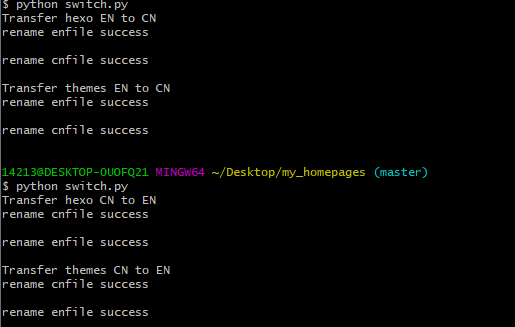
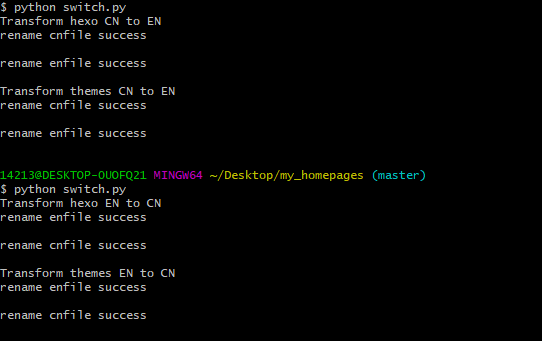
blog update

diff --git a/2020/10/16/Hexo的双语配置文件切换脚本/index.html b/2020/10/16/Hexo的双语配置文件切换脚本/index.html
@@ -19,7 +19,7 @@
 <meta property="og:description" content="由于github的服务器在境外，时常出现国内访问速度慢的问题，考虑实际需要，所以该站采用境内外的双语部署配置文件。每次分别部署时候要手动重命名四个文件，非常麻烦。所以写了这个脚本快速切换配置文件。话说将博客分成中英文两个git分支是最优雅彻底的方式，目前这个先用来应急。">
 <meta property="og:locale" content="default">
 <meta property="og:image" content="https://cranefly88.cn/images/2020-10-16-01.png">
-<meta property="og:updated_time" content="2020-10-16T11:34:10.617Z">
+<meta property="og:updated_time" content="2020-10-16T14:36:55.532Z">
 <meta name="twitter:card" content="summary">
 <meta name="twitter:title" content="Hexo的双语配置文件切换脚本">
 <meta name="twitter:description" content="由于github的服务器在境外，时常出现国内访问速度慢的问题，考虑实际需要，所以该站采用境内外的双语部署配置文件。每次分别部署时候要手动重命名四个文件，非常麻烦。所以写了这个脚本快速切换配置文件。话说将博客分成中英文两个git分支是最优雅彻底的方式，目前这个先用来应急。">
@@ -257,7 +257,7 @@
     
     <p>由于github的服务器在境外，时常出现国内访问速度慢的问题，考虑实际需要，所以该站采用境内外的双语部署配置文件。每次分别部署时候要手动重命名四个文件，非常麻烦。所以写了这个脚本快速切换配置文件。话说将博客分成中英文两个git分支是最优雅彻底的方式，目前这个先用来应急。<a id="more"></a></p>
 <h3 id="switch-py"><a href="#switch-py" class="headerlink" title="switch.py"></a>switch.py</h3><p>该文件放在hexo博客文件夹的根目录，会自动检测当前配置语言，并切换为另一种配置。</p>
-<figure class="highlight python"><table><tr><td class="gutter"><pre><span class="line">1</span><br><span class="line">2</span><br><span class="line">3</span><br><span class="line">4</span><br><span class="line">5</span><br><span class="line">6</span><br><span class="line">7</span><br><span class="line">8</span><br><span class="line">9</span><br><span class="line">10</span><br><span class="line">11</span><br><span class="line">12</span><br><span class="line">13</span><br><span class="line">14</span><br><span class="line">15</span><br><span class="line">16</span><br><span class="line">17</span><br><span class="line">18</span><br><span class="line">19</span><br><span class="line">20</span><br><span class="line">21</span><br><span class="line">22</span><br><span class="line">23</span><br><span class="line">24</span><br><span class="line">25</span><br><span class="line">26</span><br><span class="line">27</span><br><span class="line">28</span><br><span class="line">29</span><br><span class="line">30</span><br><span class="line">31</span><br><span class="line">32</span><br><span class="line">33</span><br><span class="line">34</span><br><span class="line">35</span><br><span class="line">36</span><br><span class="line">37</span><br><span class="line">38</span><br><span class="line">39</span><br><span class="line">40</span><br><span class="line">41</span><br><span class="line">42</span><br><span class="line">43</span><br><span class="line">44</span><br><span class="line">45</span><br><span class="line">46</span><br><span class="line">47</span><br><span class="line">48</span><br><span class="line">49</span><br><span class="line">50</span><br><span class="line">51</span><br><span class="line">52</span><br><span class="line">53</span><br><span class="line">54</span><br><span class="line">55</span><br><span class="line">56</span><br><span class="line">57</span><br><span class="line">58</span><br><span class="line">59</span><br><span class="line">60</span><br><span class="line">61</span><br><span class="line">62</span><br><span class="line">63</span><br><span class="line">64</span><br><span class="line">65</span><br><span class="line">66</span><br><span class="line">67</span><br><span class="line">68</span><br><span class="line">69</span><br><span class="line">70</span><br><span class="line">71</span><br><span class="line">72</span><br><span class="line">73</span><br><span class="line">74</span><br><span class="line">75</span><br><span class="line">76</span><br><span class="line">77</span><br><span class="line">78</span><br><span class="line">79</span><br><span class="line">80</span><br><span class="line">81</span><br><span class="line">82</span><br><span class="line">83</span><br><span class="line">84</span><br><span class="line">85</span><br><span class="line">86</span><br><span class="line">87</span><br><span class="line">88</span><br><span class="line">89</span><br><span class="line">90</span><br><span class="line">91</span><br></pre></td><td class="code"><pre><span class="line"><span class="keyword">import</span> os,sys</span><br><span class="line"><span class="comment">#修改hexo配置文件</span></span><br><span class="line">path = <span class="string">r'[博客路径]'</span></span><br><span class="line">files = os.listdir(path)</span><br><span class="line"></span><br><span class="line"><span class="keyword">for</span> file <span class="keyword">in</span> files:</span><br><span class="line">    <span class="keyword">if</span> file == <span class="string">'_config_en.yml'</span>  :</span><br><span class="line">        print(<span class="string">"Transfer hexo CN to EN"</span>)</span><br><span class="line">        srcFile = <span class="string">'./_config.yml'</span></span><br><span class="line">        dstFile = <span class="string">'./_config_cn.yml'</span></span><br><span class="line">        <span class="keyword">try</span>:</span><br><span class="line">            os.rename(srcFile,dstFile)</span><br><span class="line">        <span class="keyword">except</span> Exception <span class="keyword">as</span> e:</span><br><span class="line">            print(e)</span><br><span class="line">            print(<span class="string">'rename cnfile fail\r\n'</span>)</span><br><span class="line">        <span class="keyword">else</span>:</span><br><span class="line">            print(<span class="string">'rename cnfile success\r\n'</span>)</span><br><span class="line">        srcFile = <span class="string">'./_config_en.yml'</span></span><br><span class="line">        dstFile = <span class="string">'./_config.yml'</span></span><br><span class="line">        <span class="keyword">try</span>:</span><br><span class="line">            os.rename(srcFile,dstFile)</span><br><span class="line">        <span class="keyword">except</span> Exception <span class="keyword">as</span> e:</span><br><span class="line">            print(e)</span><br><span class="line">            print(<span class="string">'rename enfile fail\r\n'</span>)</span><br><span class="line">        <span class="keyword">else</span>:</span><br><span class="line">            print(<span class="string">'rename enfile success\r\n'</span>)</span><br><span class="line">    <span class="keyword">elif</span> file == <span class="string">'_config_cn.yml'</span> :</span><br><span class="line">        print(<span class="string">"Transfer hexo EN to CN"</span>)</span><br><span class="line">        srcFile = <span class="string">'./_config.yml'</span></span><br><span class="line">        dstFile = <span class="string">'./_config_en.yml'</span></span><br><span class="line">        <span class="keyword">try</span>:</span><br><span class="line">            os.rename(srcFile,dstFile)</span><br><span class="line">        <span class="keyword">except</span> Exception <span class="keyword">as</span> e:</span><br><span class="line">            print(e)</span><br><span class="line">            print(<span class="string">'rename enfile fail\r\n'</span>)</span><br><span class="line">        <span class="keyword">else</span>:</span><br><span class="line">            print(<span class="string">'rename enfile success\r\n'</span>)</span><br><span class="line">        srcFile = <span class="string">'./_config_cn.yml'</span></span><br><span class="line">        dstFile = <span class="string">'./_config.yml'</span></span><br><span class="line">        <span class="keyword">try</span>:</span><br><span class="line">            os.rename(srcFile,dstFile)</span><br><span class="line">        <span class="keyword">except</span> Exception <span class="keyword">as</span> e:</span><br><span class="line">            print(e)</span><br><span class="line">            print(<span class="string">'rename cnfile fail\r\n'</span>)</span><br><span class="line">        <span class="keyword">else</span>:</span><br><span class="line">            print(<span class="string">'rename cnfile success\r\n'</span>)</span><br><span class="line"><span class="comment">#修改主题配置文件</span></span><br><span class="line">path = <span class="string">r'主题路径'</span></span><br><span class="line">files = os.listdir(path)</span><br><span class="line"></span><br><span class="line"><span class="keyword">for</span> file <span class="keyword">in</span> files:</span><br><span class="line">    <span class="keyword">if</span> file == <span class="string">'_config_en.yml'</span>  :</span><br><span class="line">        print(<span class="string">"Transfer themes CN to EN"</span>)</span><br><span class="line">        srcFile = path+<span class="string">'/_config.yml'</span></span><br><span class="line">        dstFile = path+<span class="string">'/_config_cn.yml'</span></span><br><span class="line">        <span class="keyword">try</span>:</span><br><span class="line">            os.rename(srcFile,dstFile)</span><br><span class="line">        <span class="keyword">except</span> Exception <span class="keyword">as</span> e:</span><br><span class="line">            print(e)</span><br><span class="line">            print(<span class="string">'rename cnfile fail\r\n'</span>)</span><br><span class="line">        <span class="keyword">else</span>:</span><br><span class="line">            print(<span class="string">'rename cnfile success\r\n'</span>)</span><br><span class="line">        srcFile = path+<span class="string">'/_config_en.yml'</span></span><br><span class="line">        dstFile = path+<span class="string">'/_config.yml'</span></span><br><span class="line">        <span class="keyword">try</span>:</span><br><span class="line">            os.rename(srcFile,dstFile)</span><br><span class="line">        <span class="keyword">except</span> Exception <span class="keyword">as</span> e:</span><br><span class="line">            print(e)</span><br><span class="line">            print(<span class="string">'rename enfile fail\r\n'</span>)</span><br><span class="line">        <span class="keyword">else</span>:</span><br><span class="line">            print(<span class="string">'rename enfile success\r\n'</span>)</span><br><span class="line">    <span class="keyword">elif</span> file == <span class="string">'_config_cn.yml'</span> :</span><br><span class="line">        print(<span class="string">"Transfer themes EN to CN"</span>)</span><br><span class="line">        srcFile = path+<span class="string">'/_config.yml'</span></span><br><span class="line">        dstFile = path+<span class="string">'/_config_en.yml'</span></span><br><span class="line">        <span class="keyword">try</span>:</span><br><span class="line">            os.rename(srcFile,dstFile)</span><br><span class="line">        <span class="keyword">except</span> Exception <span class="keyword">as</span> e:</span><br><span class="line">            print(e)</span><br><span class="line">            print(<span class="string">'rename enfile fail\r\n'</span>)</span><br><span class="line">        <span class="keyword">else</span>:</span><br><span class="line">            print(<span class="string">'rename enfile success\r\n'</span>)</span><br><span class="line">        srcFile = path+<span class="string">'/_config_cn.yml'</span></span><br><span class="line">        dstFile = path+<span class="string">'/_config.yml'</span></span><br><span class="line">        <span class="keyword">try</span>:</span><br><span class="line">            os.rename(srcFile,dstFile)</span><br><span class="line">        <span class="keyword">except</span> Exception <span class="keyword">as</span> e:</span><br><span class="line">            print(e)</span><br><span class="line">            print(<span class="string">'rename cnfile fail\r\n'</span>)</span><br><span class="line">        <span class="keyword">else</span>:</span><br><span class="line">            print(<span class="string">'rename cnfile success\r\n'</span>)</span><br></pre></td></tr></table></figure>
+<figure class="highlight python"><table><tr><td class="gutter"><pre><span class="line">1</span><br><span class="line">2</span><br><span class="line">3</span><br><span class="line">4</span><br><span class="line">5</span><br><span class="line">6</span><br><span class="line">7</span><br><span class="line">8</span><br><span class="line">9</span><br><span class="line">10</span><br><span class="line">11</span><br><span class="line">12</span><br><span class="line">13</span><br><span class="line">14</span><br><span class="line">15</span><br><span class="line">16</span><br><span class="line">17</span><br><span class="line">18</span><br><span class="line">19</span><br><span class="line">20</span><br><span class="line">21</span><br><span class="line">22</span><br><span class="line">23</span><br><span class="line">24</span><br><span class="line">25</span><br><span class="line">26</span><br><span class="line">27</span><br><span class="line">28</span><br><span class="line">29</span><br><span class="line">30</span><br><span class="line">31</span><br><span class="line">32</span><br><span class="line">33</span><br><span class="line">34</span><br><span class="line">35</span><br><span class="line">36</span><br><span class="line">37</span><br><span class="line">38</span><br><span class="line">39</span><br><span class="line">40</span><br><span class="line">41</span><br><span class="line">42</span><br><span class="line">43</span><br><span class="line">44</span><br><span class="line">45</span><br><span class="line">46</span><br><span class="line">47</span><br><span class="line">48</span><br><span class="line">49</span><br><span class="line">50</span><br><span class="line">51</span><br><span class="line">52</span><br><span class="line">53</span><br><span class="line">54</span><br><span class="line">55</span><br><span class="line">56</span><br><span class="line">57</span><br><span class="line">58</span><br><span class="line">59</span><br><span class="line">60</span><br><span class="line">61</span><br><span class="line">62</span><br><span class="line">63</span><br><span class="line">64</span><br><span class="line">65</span><br><span class="line">66</span><br><span class="line">67</span><br><span class="line">68</span><br><span class="line">69</span><br><span class="line">70</span><br><span class="line">71</span><br><span class="line">72</span><br><span class="line">73</span><br><span class="line">74</span><br><span class="line">75</span><br><span class="line">76</span><br><span class="line">77</span><br><span class="line">78</span><br><span class="line">79</span><br><span class="line">80</span><br><span class="line">81</span><br><span class="line">82</span><br><span class="line">83</span><br><span class="line">84</span><br><span class="line">85</span><br><span class="line">86</span><br><span class="line">87</span><br><span class="line">88</span><br><span class="line">89</span><br><span class="line">90</span><br><span class="line">91</span><br></pre></td><td class="code"><pre><span class="line"><span class="keyword">import</span> os,sys</span><br><span class="line"><span class="comment">#修改hexo配置文件</span></span><br><span class="line">path = <span class="string">r'[博客路径]'</span></span><br><span class="line">files = os.listdir(path)</span><br><span class="line"></span><br><span class="line"><span class="keyword">for</span> file <span class="keyword">in</span> files:</span><br><span class="line">    <span class="keyword">if</span> file == <span class="string">'_config_en.yml'</span>  :</span><br><span class="line">        print(<span class="string">"Transform hexo CN to EN"</span>)</span><br><span class="line">        srcFile = <span class="string">'./_config.yml'</span></span><br><span class="line">        dstFile = <span class="string">'./_config_cn.yml'</span></span><br><span class="line">        <span class="keyword">try</span>:</span><br><span class="line">            os.rename(srcFile,dstFile)</span><br><span class="line">        <span class="keyword">except</span> Exception <span class="keyword">as</span> e:</span><br><span class="line">            print(e)</span><br><span class="line">            print(<span class="string">'rename cnfile fail\r\n'</span>)</span><br><span class="line">        <span class="keyword">else</span>:</span><br><span class="line">            print(<span class="string">'rename cnfile success\r\n'</span>)</span><br><span class="line">        srcFile = <span class="string">'./_config_en.yml'</span></span><br><span class="line">        dstFile = <span class="string">'./_config.yml'</span></span><br><span class="line">        <span class="keyword">try</span>:</span><br><span class="line">            os.rename(srcFile,dstFile)</span><br><span class="line">        <span class="keyword">except</span> Exception <span class="keyword">as</span> e:</span><br><span class="line">            print(e)</span><br><span class="line">            print(<span class="string">'rename enfile fail\r\n'</span>)</span><br><span class="line">        <span class="keyword">else</span>:</span><br><span class="line">            print(<span class="string">'rename enfile success\r\n'</span>)</span><br><span class="line">    <span class="keyword">elif</span> file == <span class="string">'_config_cn.yml'</span> :</span><br><span class="line">        print(<span class="string">"Transform hexo EN to CN"</span>)</span><br><span class="line">        srcFile = <span class="string">'./_config.yml'</span></span><br><span class="line">        dstFile = <span class="string">'./_config_en.yml'</span></span><br><span class="line">        <span class="keyword">try</span>:</span><br><span class="line">            os.rename(srcFile,dstFile)</span><br><span class="line">        <span class="keyword">except</span> Exception <span class="keyword">as</span> e:</span><br><span class="line">            print(e)</span><br><span class="line">            print(<span class="string">'rename enfile fail\r\n'</span>)</span><br><span class="line">        <span class="keyword">else</span>:</span><br><span class="line">            print(<span class="string">'rename enfile success\r\n'</span>)</span><br><span class="line">        srcFile = <span class="string">'./_config_cn.yml'</span></span><br><span class="line">        dstFile = <span class="string">'./_config.yml'</span></span><br><span class="line">        <span class="keyword">try</span>:</span><br><span class="line">            os.rename(srcFile,dstFile)</span><br><span class="line">        <span class="keyword">except</span> Exception <span class="keyword">as</span> e:</span><br><span class="line">            print(e)</span><br><span class="line">            print(<span class="string">'rename cnfile fail\r\n'</span>)</span><br><span class="line">        <span class="keyword">else</span>:</span><br><span class="line">            print(<span class="string">'rename cnfile success\r\n'</span>)</span><br><span class="line"><span class="comment">#修改主题配置文件</span></span><br><span class="line">path = <span class="string">r'主题路径'</span></span><br><span class="line">files = os.listdir(path)</span><br><span class="line"></span><br><span class="line"><span class="keyword">for</span> file <span class="keyword">in</span> files:</span><br><span class="line">    <span class="keyword">if</span> file == <span class="string">'_config_en.yml'</span>  :</span><br><span class="line">        print(<span class="string">"Transform themes CN to EN"</span>)</span><br><span class="line">        srcFile = path+<span class="string">'/_config.yml'</span></span><br><span class="line">        dstFile = path+<span class="string">'/_config_cn.yml'</span></span><br><span class="line">        <span class="keyword">try</span>:</span><br><span class="line">            os.rename(srcFile,dstFile)</span><br><span class="line">        <span class="keyword">except</span> Exception <span class="keyword">as</span> e:</span><br><span class="line">            print(e)</span><br><span class="line">            print(<span class="string">'rename cnfile fail\r\n'</span>)</span><br><span class="line">        <span class="keyword">else</span>:</span><br><span class="line">            print(<span class="string">'rename cnfile success\r\n'</span>)</span><br><span class="line">        srcFile = path+<span class="string">'/_config_en.yml'</span></span><br><span class="line">        dstFile = path+<span class="string">'/_config.yml'</span></span><br><span class="line">        <span class="keyword">try</span>:</span><br><span class="line">            os.rename(srcFile,dstFile)</span><br><span class="line">        <span class="keyword">except</span> Exception <span class="keyword">as</span> e:</span><br><span class="line">            print(e)</span><br><span class="line">            print(<span class="string">'rename enfile fail\r\n'</span>)</span><br><span class="line">        <span class="keyword">else</span>:</span><br><span class="line">            print(<span class="string">'rename enfile success\r\n'</span>)</span><br><span class="line">    <span class="keyword">elif</span> file == <span class="string">'_config_cn.yml'</span> :</span><br><span class="line">        print(<span class="string">"Transform themes EN to CN"</span>)</span><br><span class="line">        srcFile = path+<span class="string">'/_config.yml'</span></span><br><span class="line">        dstFile = path+<span class="string">'/_config_en.yml'</span></span><br><span class="line">        <span class="keyword">try</span>:</span><br><span class="line">            os.rename(srcFile,dstFile)</span><br><span class="line">        <span class="keyword">except</span> Exception <span class="keyword">as</span> e:</span><br><span class="line">            print(e)</span><br><span class="line">            print(<span class="string">'rename enfile fail\r\n'</span>)</span><br><span class="line">        <span class="keyword">else</span>:</span><br><span class="line">            print(<span class="string">'rename enfile success\r\n'</span>)</span><br><span class="line">        srcFile = path+<span class="string">'/_config_cn.yml'</span></span><br><span class="line">        dstFile = path+<span class="string">'/_config.yml'</span></span><br><span class="line">        <span class="keyword">try</span>:</span><br><span class="line">            os.rename(srcFile,dstFile)</span><br><span class="line">        <span class="keyword">except</span> Exception <span class="keyword">as</span> e:</span><br><span class="line">            print(e)</span><br><span class="line">            print(<span class="string">'rename cnfile fail\r\n'</span>)</span><br><span class="line">        <span class="keyword">else</span>:</span><br><span class="line">            print(<span class="string">'rename cnfile success\r\n'</span>)</span><br></pre></td></tr></table></figure>
 
 <h3 id="运行结果"><a href="#运行结果" class="headerlink" title="运行结果"></a>运行结果</h3><p><img src="/images/2020-10-16-01.png" alt="运行结果" title="运行结果"></p>
 
